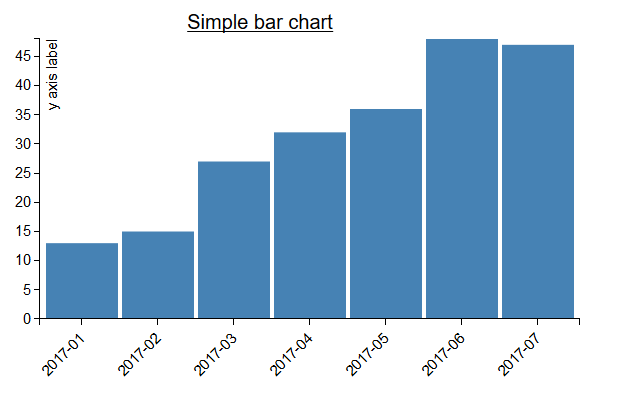
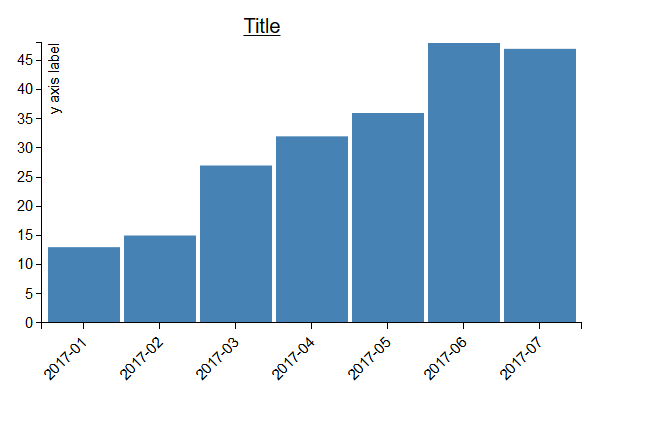
Changed some titles

diff --git a/lineChart.html b/lineChart.html
@@ -16,9 +16,9 @@
 <script>
 
 	// set the dimensions and margins of the graph
-	var margin = {top: 50, right: 20, bottom: 30, left: 50},
+	var margin = {top: 50, right: 20, bottom: 70, left: 40},
 		width = 600 - margin.left - margin.right,
-		height = 300 - margin.top - margin.bottom;
+		height = 400 - margin.top - margin.bottom;
 
 	// parse the date / time
 	var parseTime = d3.timeParse("%Y-%m");
@@ -64,7 +64,7 @@
 		.attr("y", -10)
 		.style("text-anchor", "middle")
 		.style("text-decoration", "underline")
-		.text("Time-series line chart")
+		.text("Title")
 		.attr("font-family", "sans-serif")
 		.attr("font-size", "20px");
 		
@@ -73,25 +73,10 @@
 	  svg.append("g")
 		.attr("transform", "translate(0," + height + ")")
 		.call(d3.axisBottom(x))
-		.append("text")
-		.attr("x", 0)
-		.attr("y", 0)
-		.style("text-anchor", "middle")
-		.text("x axis label")
-		.attr("font-family", "sans-serif")
-		.attr("font-size", "15px");
 
 	  // add y axis
 	  svg.append("g")
 		.call(d3.axisLeft(y))
-		.append("text")
-		.attr("x", 0)
-		.attr("y", 0)
-		.style("text-anchor", "middle")
-		.text("y axis label")
-		.attr("font-family", "sans-serif")
-		.attr("font-size", "15px")
-		.attr("transform", "rotate(-90)");
 
 });
 

diff --git a/scatterPlot.html b/scatterPlot.html
@@ -81,7 +81,7 @@
 			   .attr("y", paddingY)
 			   .style("text-anchor", "middle")
 			   .style("text-decoration", "underline")
-			   .text("Simple scatter plot")
+			   .text("Title")
 			   .attr("font-family", "sans-serif")
 			   .attr("font-size", "15px");
 					

diff --git a/README.md b/README.md
@@ -2,10 +2,12 @@
 ### Scatter plot
 ![image of simple d3 scatter plot](https://github.com/Trende/Simple-d3-charts/blob/master/img/scatterPlot.PNG "Scatter plot")
 
+
 ------
 ### Bar chart
 
 ![image of simple d3 bar char](https://github.com/Trende/Simple-d3-charts/blob/master/img/barChart.PNG "Simple bar chart")
+
 
 ------
 ### Time-series line chart
